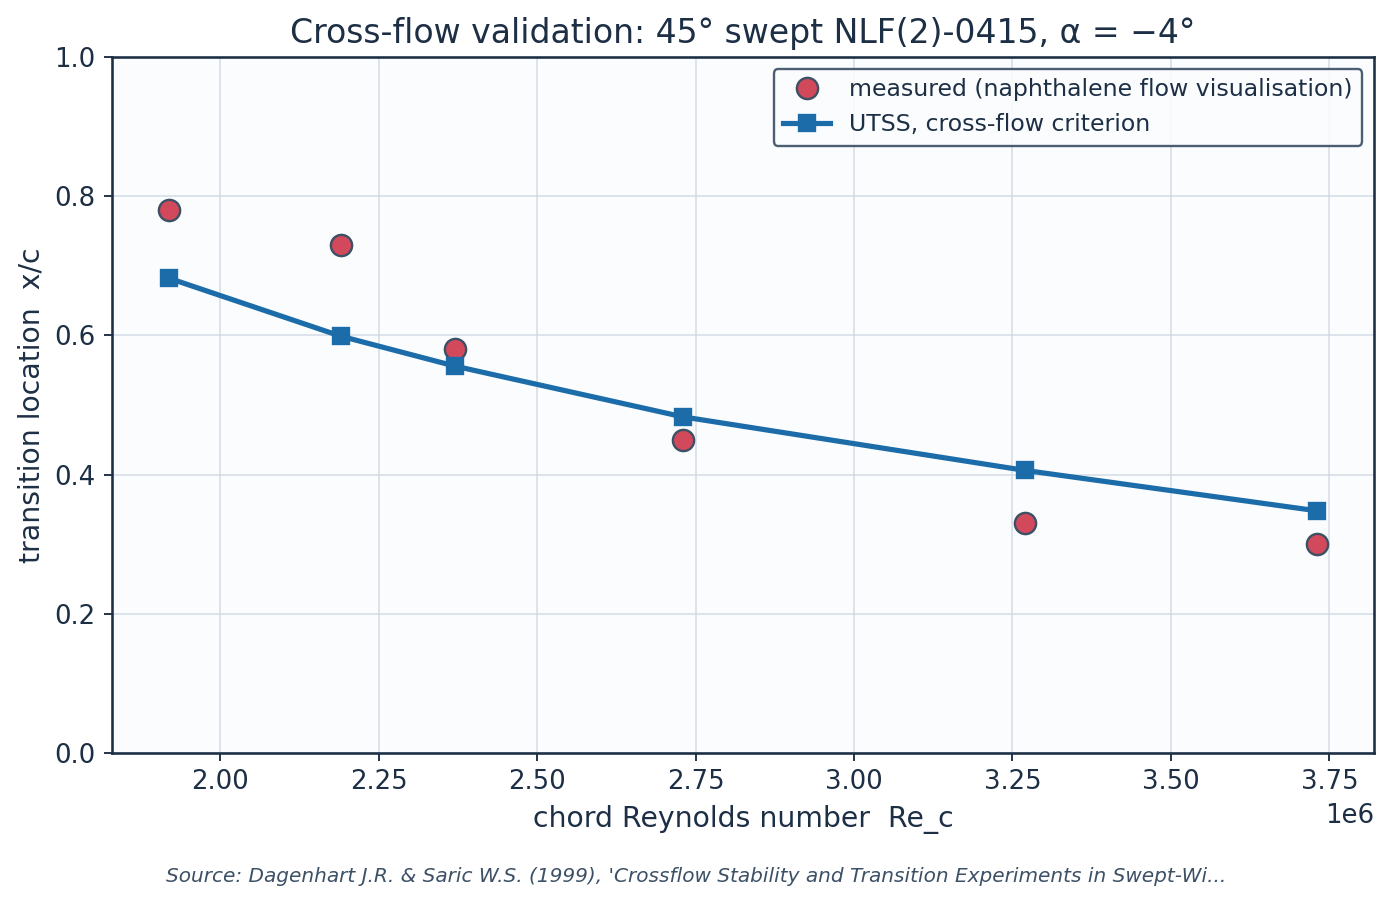
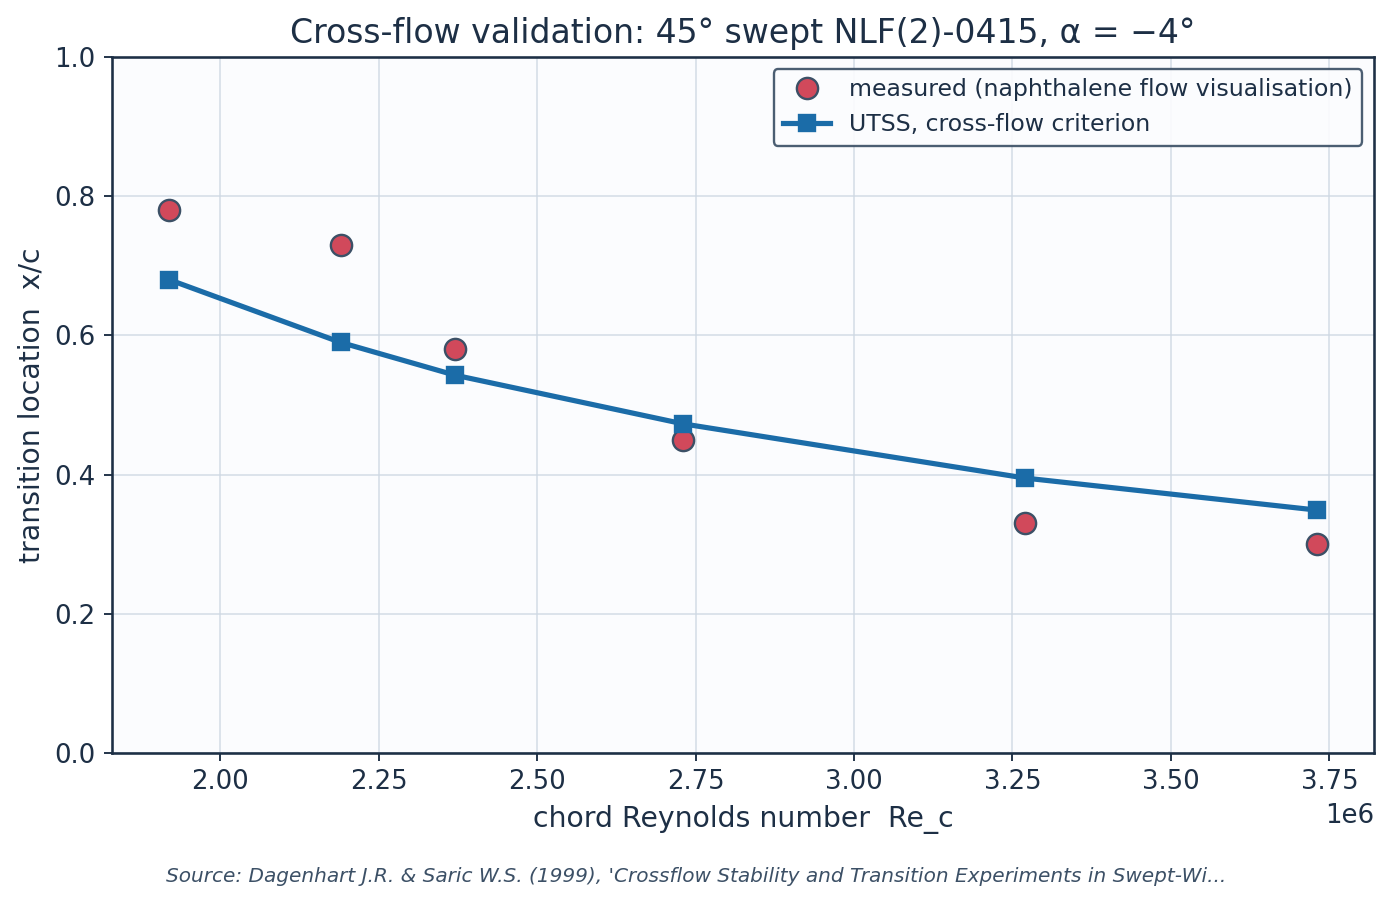
Fix the leading-edge splining of tabulated sections
Sections read from a Selig-format file were re-splined onto cosine spacing by
linear interpolation in x. A rounded leading edge tabulated at a few dozen
points then becomes a polygon, and the panel method returns a leading-edge
pressure distribution that oscillates by order unity in Cp: on the NACA
64(2)A015 at 4 degrees the forward Cp ran -1.38, -0.45, -0.22, -0.95, -1.82,
-1.55 between adjacent control points. That is not cosmetic. The critical
Reynolds number of the amplification envelope is exponentially sensitive to
the shape factor, so the spurious gradients drove the e^N integral and
transition was predicted far too early.

Surfaces are now splined with a cubic against sqrt(x) rather than x, since a
rounded nose has y ~ sqrt(x) there and y is nearly linear in that variable.
Both swept-wing cases use the same routine.

The clearest evidence that this is right is the calibration set: the onset
momentum-thickness Reynolds number over the six Dagenhart & Saric conditions
now spans 639.5 to 641.6, a spread of 0.3%, against roughly 1.7% before. A
criterion posed on a fixed cross-flow Reynolds number must give a constant,
and now it does.

Mean errors: 13.2% on the calibration set (was 13.5), 34.2% on the
independent Boltz set (was 33.0). The flat plates and the wing are unaffected,
since they do not read a tabulated section.

Also repairs a structural error introduced while editing gen_validation.py, in
[…]

Changed region(s): [[0.1855, 0.3411, 0.8965, 0.5581], [0.1237, 0.3101, 0.1855, 0.3411]]

diff --git a/gen_validation.py b/gen_validation.py
@@ -180,7 +180,7 @@ def _nlf415_points():
 def run_swept():
     """The only case in which the cross-flow criterion is the selected one."""
     v=C.SWEPT
-    X,Y=_nlf415_points()
+    X,Y=_section_points(NLF415)
     rows=[]
     for Rec,xm in zip(v["Re_c"], v["x_tr_c"]):
         U=Rec*v["nu"]/v["chord_m"]
@@ -215,9 +215,21 @@ def run_swept():
     return df
 
 
-def _section_points(fn, n=140):
-    """Load a Selig-format section and re-spline it onto cosine spacing,
-    returned TE -> lower -> LE -> upper -> TE."""
+def _section_points(fn, n=200):
+    """Load a Selig-format section and re-spline it, TE -> lower -> LE -> upper.
+
+    The surfaces are splined against sqrt(x) rather than x.  A rounded
+    leading edge has y ~ sqrt(x) there, so y is very nearly linear in that
+    variable and a cubic spline reproduces the nose smoothly; interpolating
+    linearly in x, as a first version of this routine did, turns a sparsely
+    tabulated nose into a polygon and the panel method then returns a
+    leading-edge pressure distribution that oscillates by order unity in
+    C_p.  That is not a small cosmetic error: the critical Reynolds number
+    of the amplification envelope is exponentially sensitive to the shape
+    factor, so the spurious gradients drive the e^N integral and transition
+    is predicted far too early.
+    """
+    from scipy.interpolate import CubicSpline
     pts=[]
     for line in open(fn):
         q=line.split()
@@ -225,9 +237,16 @@ def _section_points(fn, n=140):
             try: pts.append((float(q[0]),float(q[1])))
             except ValueError: pass
     a=np.array(pts); i=int(np.argmin(a[:,0]))
-    up=a[:i+1][::-1]; lo=a[i:]
-    beta=np.linspace(0,np.pi,n+1); xc=0.5*(1.0-np.cos(beta))
-    yu=np.interp(xc, up[:,0], up[:,1]); yl=np.interp(xc, lo[:,0], lo[:,1])
+    up=a[:i+1][::-1]; lo=a[i:]                       # each runs LE -> TE
+    beta=np.linspace(0.0,np.pi,n+1); xc=0.5*(1.0-np.cos(beta))
+    out=[]
+    for surf in (up, lo):
+        x=np.clip(surf[:,0],0.0,None); y=surf[:,1]
+        k=np.argsort(x); x,y=x[k],y[k]
+        keep=np.concatenate([[True], np.diff(x)>1e-12])
+        x,y=x[keep],y[keep]
+        out.append(CubicSpline(np.sqrt(x), y, bc_type="natural")(np.sqrt(xc)))
+    yu,yl=out
     return (np.concatenate([xc[::-1],xc[1:]]),
             np.concatenate([yl[::-1],yu[1:]]))
 

diff --git a/README.md b/README.md
@@ -159,32 +159,32 @@ a bubble; it does not resolve one.
 
 **Cross-flow — 45° swept NLF(2)-0415** (Dagenhart & Saric, NASA/TP-1999-209344, Table 2). The
 cross-flow criterion is the selected one at all six chord Reynolds numbers; mean absolute error in
-transition location is **13.5%**, and the onset momentum-thickness Reynolds number is constant to
-better than 2% across the sweep — the evidence that the form of the criterion is right, not merely
+transition location is **13.2%**, and the onset momentum-thickness Reynolds number is constant to
+**0.3%** across the sweep — the evidence that the form of the criterion is right, not merely
 well placed.
 
 **Independent cross-flow check — NACA 64(2)A015, sweep 0–50°** (Boltz, Kenyon & Allen, NACA TN
 D-338, 1960). A different facility, section and era, with the sweep varied rather than fixed, and
-**nothing calibrated on it**. Mean absolute error **33.0%**, and the criterion selection is correct
+**nothing calibrated on it**. Mean absolute error **34.2%**, and the criterion selection is correct
 in kind at every condition — amplification below 10° of sweep, cross-flow from 30° upwards. This,
-not the 13.5% above, is the accuracy to expect on a new configuration.
+not the 13.2% above, is the accuracy to expect on a new configuration.
 
 | Λ | α | Re_c | x/c measured | x/c predicted | error | criterion |
 |---|---|---|---|---|---|---|
-| 0° | +4.0° | 6.27 × 10⁶ | 0.21 | 0.086 | −59.1% | natural |
-| 10° | 0.0° | 1.50 × 10⁷ | 0.45 | 0.405 | −10.0% | natural |
-| 30° | −3.0° | 7.13 × 10⁶ | 0.21 | 0.258 | +22.9% | cross-flow |
-| 40° | −1.5° | 6.30 × 10⁶ | 0.35 | 0.202 | −42.4% | cross-flow |
-| 50° | −1.0° | 7.36 × 10⁶ | 0.24 | 0.167 | −30.5% | cross-flow |
+| 0° | +4.0° | 6.27 × 10⁶ | 0.21 | 0.098 | −53.4% | natural |
+| 10° | 0.0° | 1.50 × 10⁷ | 0.45 | 0.364 | −19.0% | natural |
+| 30° | −3.0° | 7.13 × 10⁶ | 0.21 | 0.256 | +21.8% | cross-flow |
+| 40° | −1.5° | 6.30 × 10⁶ | 0.35 | 0.197 | −43.8% | cross-flow |
+| 50° | −1.0° | 7.36 × 10⁶ | 0.24 | 0.161 | −33.1% | cross-flow |
 
 | Re_c | x/c measured | x/c predicted | error |
 |---|---|---|---|
-| 1.92 × 10⁶ | 0.78 | 0.682 | −12.6% |
-| 2.19 × 10⁶ | 0.73 | 0.599 | −17.9% |
-| 2.37 × 10⁶ | 0.58 | 0.556 | −4.2% |
-| 2.73 × 10⁶ | 0.45 | 0.483 | +7.4% |
-| 3.27 × 10⁶ | 0.33 | 0.406 | +23.0% |
-| 3.73 × 10⁶ | 0.30 | 0.348 | +15.9% |
+| 1.92 × 10⁶ | 0.78 | 0.680 | −12.8% |
+| 2.19 × 10⁶ | 0.73 | 0.590 | −19.2% |
+| 2.37 × 10⁶ | 0.58 | 0.543 | −6.4% |
+| 2.73 × 10⁶ | 0.45 | 0.473 | +5.0% |
+| 3.27 × 10⁶ | 0.33 | 0.395 | +19.6% |
+| 3.73 × 10⁶ | 0.30 | 0.349 | +16.4% |
 
 Full experiment-vs-solver data, plots, and bibliographic sources are in `06_validation/`.
 
